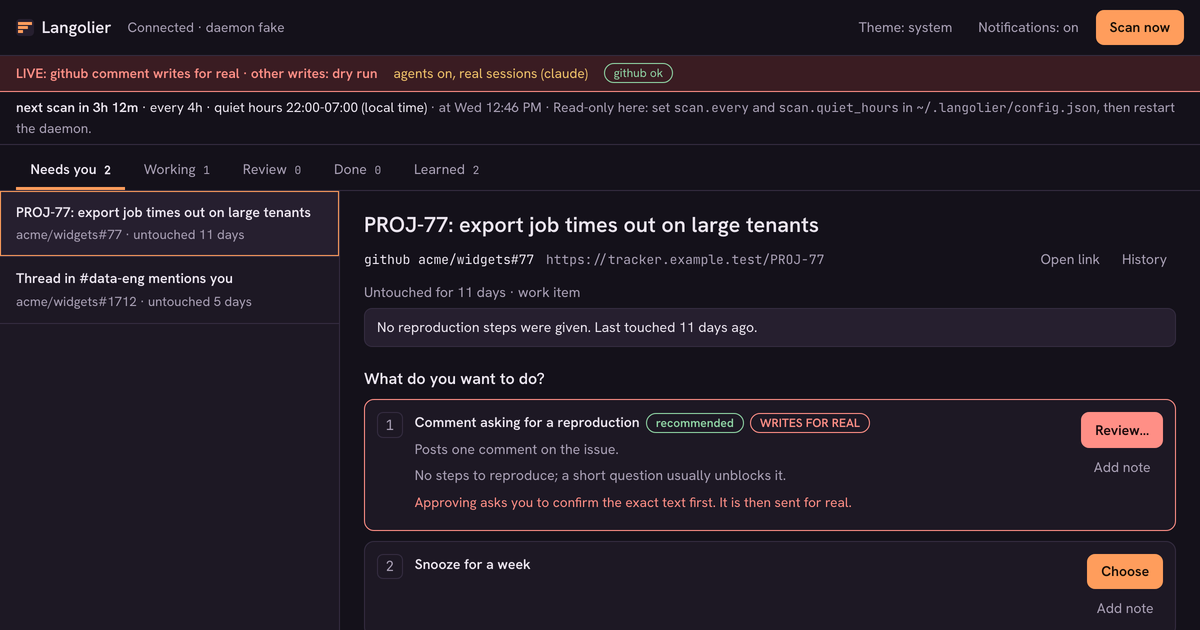
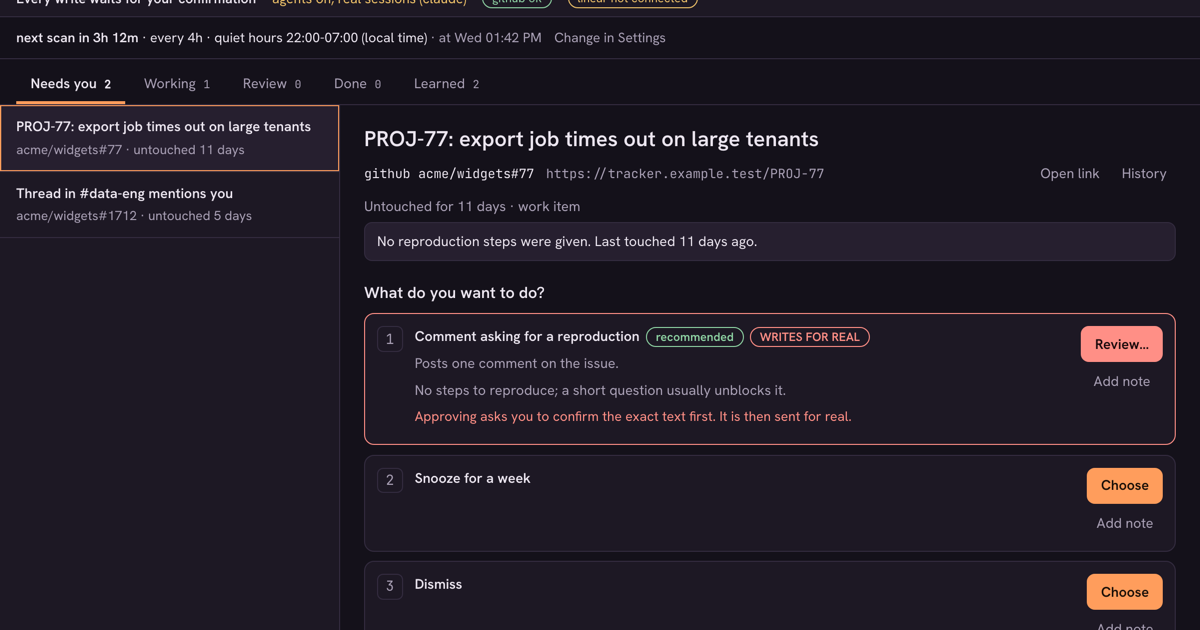
Langolier post: update for 0.2.1 (writes on by default, scheduled scans, Connections and Settings screens)

diff --git a/src/content/blog/3900-langolier-launch-the-backlog-that-quietly-rots.md b/src/content/blog/3900-langolier-launch-the-backlog-that-quietly-rots.md
@@ -50,15 +50,25 @@ The goal is a short queue where every item is worth reading. You answer question
 
 "Ask before acting" is easy to say and easy to water down, so here is what it means in practice.
 
-The scan is read-only. The daemon does every read itself and hands the items to the model as data. The triage agent runs Claude Code with no tools at all, and the daemon enforces that a second time by watching the event stream and killing the run if a tool call appears. Ticket and chat text is treated as untrusted input, never as instructions.
+A scan never writes and never starts an agent session; only a card you answer can. The daemon does every read itself and hands the items to the model as data. The triage agent runs Claude Code with no tools at all, and the daemon enforces that a second time by watching the event stream and killing the run if a tool call appears. Ticket and chat text is treated as untrusted input, never as instructions.
 
-Real writes are narrower still. They are off by default, switched on per action type, and only one exists today: posting a comment on a GitHub issue or pull request. Everything else, including every Linear action, stays a dry run that records what would have happened.
+So this is not a read-only tool, and it isn't a dry run either. Langolier is fully functional as installed: it can post. What it won't do is post without you. Writes are narrow, and only one exists today: posting a comment on a GitHub issue or pull request. It is on by default and can be switched off per action type, in the app's Settings screen or with `langolierd settings set writes.github.comment off`. Every Linear action is unsupported for now; Linear is read-only.
 
-With that switch on, a comment option is tagged **WRITES FOR REAL**, and choosing it doesn't send anything. It opens a confirmation that shows the target and every character that will be posted, and the Send button stays disabled until all of that text has been on screen.
+A comment option is tagged **WRITES FOR REAL**, and choosing it doesn't send anything. It opens a confirmation that shows the target and every character that will be posted, and the Send button stays disabled until all of that text has been on screen. Approval is per action, every time.
 
 ![The confirmation dialog titled THIS WRITES FOR REAL, showing the target issue and the full comment text, with Cancel and Send for real buttons.](/assets/langolier/langolier-confirm-write.png)
 
-Immediately before posting, the daemon re-checks that the active `gh` account is still the one you connected and that the item hasn't changed since you decided. If it has, nothing is posted and the card goes back to your queue with the reason. A failed post is never retried without a new answer.
+Immediately before posting, the daemon re-reads the item and re-checks that the active `gh` account is still the one you connected and that the item hasn't changed since you decided. If it has, nothing is posted and the card goes back to your queue with the reason. A failed post is never retried without a new answer.
+
+## Connect and configure in the app
+
+You don't need the terminal to get set up. The desktop app has a **Connections** screen: it shows what it found on the machine (`gh`, Claude Code, MCP server names), and connects GitHub (it shows the exact account and owners first) and Linear (you paste a personal API key into the app, and the daemon stores it in the Keychain after you confirm the workspace it opens). The **Settings** screen covers comment posting, the scan schedule, and the scan limits, and the daemon checks every value before saving it. There's no `config.json` to edit.
+
+![The Connections screen: what was found on the machine, a connected GitHub account with its owners and Re-check and Disconnect buttons, and a Linear card asking for a personal API key.](/assets/langolier/langolier-connections.png)
+
+![The Settings screen: a Post GitHub comments checkbox, with Linear actions marked not supported yet, and a Scans section with automatic scanning every 4h and quiet hours 22:00-07:00.](/assets/langolier/langolier-settings.png)
+
+Scans also run on their own: every 4 hours by default, with quiet hours from 22:00 to 07:00, and once right after you connect an account. A scheduled scan is the same read-only scan. It never writes and never starts a session, so the queue fills up while you're away and nothing happens until you answer. The terminal commands (`langolierd connect github`, `langolierd settings`) do the same things, if you prefer them.
 
 ## Local, and using your own Claude Code
 
@@ -90,12 +100,11 @@ Langolier is early, and I'd rather you know that before you install it.
 
 - **macOS first.** The installer targets macOS. There's no Linux or Windows build.
 - **Nothing is signed.** The binaries and `Langolier.app` are not Developer ID signed or notarized.
-- **Writes are narrow.** One real write exists (GitHub comments), and it's off until you turn it on. Linear is read-only.
+- **Writes are narrow.** One real write exists (GitHub comments). It's on by default, and each comment still needs exact-text confirmation. Linear writes aren't supported yet; Linear is read-only.
 - **Claude Code only.** Codex isn't wired up as an agent yet.
-- **Setup is in the terminal.** Connecting accounts, turning writes on, and setting a scan schedule happen in the CLI and `config.json`, not in the app.
 - **Personal accounts.** Connect your own GitHub and Linear accounts.
 
-If you want to look before you commit, `langolier --demo` runs the whole thing on fake data with a fake agent. It never starts `claude`, reads no credentials, and contacts nothing.
+Connect your accounts from the app's Connections screen, or with `langolierd connect github` in a terminal. If you want to look before you commit, `langolier --demo` runs the whole thing on fake data with a fake agent. It never starts `claude`, reads no credentials, and contacts nothing.
 
 To install on macOS:
 
